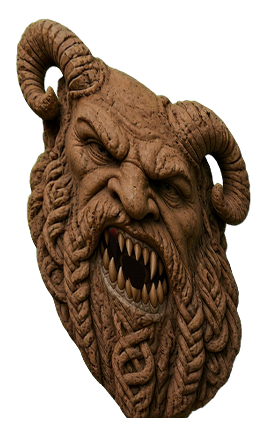
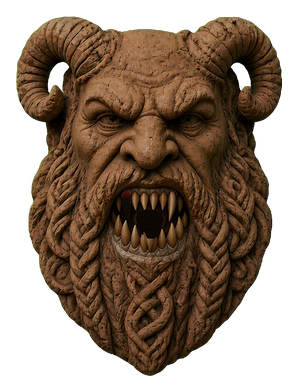
Bind the upright v5 chapel face plates.
Replace the pre-skewed 267×434 sheets with the 298×392 tooth and empty plates, size the content box at 360/392, and raise the half-width cap so the wider face is not squeezed. ASSET_VER 124.

diff --git a/src/dungeon/Ch1TeethCrown.test.js b/src/dungeon/Ch1TeethCrown.test.js
@@ -63,7 +63,7 @@ assert(/one thrall at a time/.test(html) && /Once per corpse/.test(html),
   'HOUSE law is one thrall, once per corpse');
 assert(/follow \/ fight nearest foe \/ stay/.test(html),
   'thrall commands are follow, fight nearest foe, stay');
-assert(/ASSET_VER='123'/.test(html) && !/ASSET_VER='115'/.test(html),
+assert(/ASSET_VER='124'/.test(html) && !/ASSET_VER='115'/.test(html),
   'ASSET_VER is 117 — remat Talpor idle bw=344 (Nick CALL)');
 assert(/bone_crown:'assets\/props\/prop_bone_crown\.png'/.test(html),
   'bone_crown is registered to the painted prop');
@@ -98,17 +98,17 @@ assert(/demon_dwarfface:'assets\/props\/prop_demon_dwarfface\.png'/.test(html)
   const buf=fs.readFileSync(facePath);
   assert(buf[0]===0x89 && buf[1]===0x50 && buf[2]===0x4e && buf[3]===0x47, 'SIGNED face is a PNG');
   const w=buf.readUInt32BE(16), h=buf.readUInt32BE(20);
-  assert(w===267 && h===434, 'approved demon face is the 267×434 plate');
+  assert(w===298 && h===392, 'approved demon face is the 298×392 plate');
 }
 {
   const emptyPath=path.join(__dirname,'../../assets/props/prop_demon_dwarfface_empty.png');
   assert(fs.existsSync(emptyPath), 'empty-socket demon face is on disk');
   const ebuf=fs.readFileSync(emptyPath);
-  assert(ebuf.readUInt32BE(16)===267 && ebuf.readUInt32BE(20)===434,
-    'empty socket is the same 267×434 plate');
+  assert(ebuf.readUInt32BE(16)===298 && ebuf.readUInt32BE(20)===392,
+    'empty socket is the same 298×392 plate');
 }
 assert(/demonFaceDrawH\(img, p\)/.test(extractFn('demonFaceHalf'))
-  && /return clamp\(H\*aspect\/\(2\*perTile\), 0\.70, 2\.40\)/.test(extractFn('demonFaceHalf')),
+  && /return clamp\(H\*aspect\/\(2\*perTile\), 0\.70, 2\.80\)/.test(extractFn('demonFaceHalf')),
   'the chapel face quad uses the content-sized height and keeps the plate aspect');
 assert(/function vaultDemonFace\(/.test(html)
   && /p\.wall==='e' \|\| p\.toothKind==='bronze'/.test(extractFn('vaultDemonFace'))
@@ -203,13 +203,13 @@ assert(/function cellWallH\(L,x,y\)/.test(html)
   && /if\(isTeethNorthWall\(L,x,y\)\) return teethNorthWallH\(L\)/.test(extractFn('cellWallH'))
   && /const faceH=cellWallH\(L,x,y\)/.test(html),
   'drawWallCell uses cellWallH, and the chapel row stays on teethNorthWallH');
-assert(/DEMON_FACE_PLATE=\{w:267,h:434,pad:16\}/.test(html)
+assert(/DEMON_FACE_PLATE=\{w:298,h:392,pad:16\}/.test(html)
   && /DEMON_FACE_CONTENT_SCALE=2\.40/.test(html)
   && /WALL_TEETH_FACE_SCALE=3\.15/.test(html)
-  && 3.15 > 2.40 / (399/434),
-  'the face wall covers the 267×434 plate, horns included, with margin');
+  && 3.15 > 2.40 / (360/392),
+  'the face wall covers the 298×392 plate, horns included, with margin');
 assert(/function chapelFaceContentFrac\(/.test(html)
-  && /return 399\/DEMON_FACE_PLATE\.h/.test(extractFn('chapelFaceContentFrac'))
+  && /return 360\/DEMON_FACE_PLATE\.h/.test(extractFn('chapelFaceContentFrac'))
   && !/spriteBounds/.test(extractFn('demonFaceDrawH'))
   && /chapelFaceContentFrac\(\)/.test(extractFn('demonFaceDrawH')),
   'chapel face height uses the plate fraction, not a live content box');
@@ -662,7 +662,7 @@ assert(box.openTeethChapelLook(crownTap.key)===true && box.G.talk.line===CROWN_L
     G:{lvl:{n:1}},
     TH:58,
     TILESET:{srcH:96},
-    DEMON_FACE_PLATE:{w:267,h:434,pad:16},
+    DEMON_FACE_PLATE:{w:298,h:392,pad:16},
     DEMON_FACE_CONTENT_SCALE:2.40,
     WALL_TEETH_FACE_SCALE:3.15,
     tilesetPack(){ return {wall:{oy:287}}; }

diff --git a/index.html b/index.html
@@ -436,7 +436,7 @@ const FONT_QUOTE='"Cormorant Garamond",Palatino,Georgia,serif';
 
 /* ---------------------------- painted sprites (Baldur's Gate isometric) ---------------------------- */
 const SPR={};
-const ASSET_VER='123';
+const ASSET_VER='124';
 let SPLASH_STATE='loading';
 function assetUrl(src){
   const u=src+(src.indexOf('?')>=0?'&':'?')+'v='+ASSET_VER;
@@ -2673,11 +2673,11 @@ function teethNorthWallH(L){ return wallFaceH(L)*WALL_TEETH_NORTH_SCALE; }
    row so a replacement face plate can rise inside the wall. L.wallH
    stores a multiple of wallFaceH per tile; a set value wins, and the
    predicate still applies when a save has no map. */
-/* Approved plate is 267×434. Alpha box is 235×399 (16px side pad, 19px top).
-   The portrait draws that content box at 2.40× wallFaceH, so the canvas
-   quad is about 2.61× wallFaceH. This segment is 3.15× wallFaceH, taller
-   than the canvas, so the horns sit on masonry with margin. */
-const DEMON_FACE_PLATE={w:267,h:434,pad:16};
+/* v5 plate is 298×392, upright, with no pre-skew. Content box is 266×360
+   (16px pad). The portrait draws that content box at 2.40× wallFaceH, so
+   the canvas quad is about 2.61× wallFaceH. This segment is 3.15× wallFaceH,
+   taller than the canvas, so the horns sit on masonry with margin. */
+const DEMON_FACE_PLATE={w:298,h:392,pad:16};
 const WALL_TEETH_FACE_SCALE=3.15;
 const DEMON_FACE_CONTENT_SCALE=2.40;
 function isTeethFaceWall(L,x,y){
@@ -14996,7 +14996,8 @@ function demonFaceHalf(p){
   const H=demonFaceDrawH(img, p);
   const plateAspect=DEMON_FACE_PLATE.w/DEMON_FACE_PLATE.h;
   const aspect=(img&&img.width&&img.height>img.width)?img.width/Math.max(1,img.height):plateAspect;
-  return clamp(H*aspect/(2*perTile), 0.70, 2.40);
+  /* 298/392 half is about 2.66–2.72. A 2.40 cap squeezes that wider plate. */
+  return clamp(H*aspect/(2*perTile), 0.70, 2.80);
 }
 function demonFacePlaneY(p){
   if(!p||p.wall==='e') return p?p.y:0;
@@ -15006,11 +15007,11 @@ function demonFaceScreen(p){
   return w2s(p.x, demonFacePlaneY(p));
 }
 function chapelFaceContentFrac(){
-  /* Approved plate alpha box is 399 of 434. A live spriteBounds miss
+  /* Content box is 360 of 392 (16px pad). A live spriteBounds miss
      (plate not decoded yet, or a box that failed the portrait test)
      used to return dwarfFaceH()*1.08 — a small mask on the 3.15 wall.
      This fraction is dimensionless, so face/wall is the same at every zoom. */
-  return 399/DEMON_FACE_PLATE.h;
+  return 360/DEMON_FACE_PLATE.h;
 }
 function demonFaceDrawH(img, p){
   if(!p || vaultDemonFace(p)) return dwarfFaceH()*1.08;

diff --git a/src/systems/Interaction.test.js b/src/systems/Interaction.test.js
@@ -37,7 +37,7 @@ assert(SR.SHIPPED.indexOf('Interaction')>=0 && SR.SHIPPED.indexOf('Discovery')>=
 assert(/src="src\/systems\/Interaction\.js"/.test(html),
   'Interaction is a classic sync tag');
 assert(!/type\s*=\s*["']module["']/.test(html), 'index.html still has no type=module');
-assert(/ASSET_VER='123'/.test(html), 'ASSET_VER is 117');
+assert(/ASSET_VER='124'/.test(html), 'ASSET_VER is 117');
 assert(/function tryFindSecret\(p, mode\)\{/.test(html) &&
   /key==='search'/.test(html) && /key==='secret'/.test(html),
   'dual SEARCH (F herbs / T doors) is unchanged');
@@ -388,7 +388,7 @@ assert(/if\(typeof Interaction!=='undefined' && Interaction\.isProtectedCell/.te
 assert(/breakRock\(L,i,j\)/.test(html) && /function breakRock\(L,i,j\)\{/.test(html),
   'host breakRock remains the destruction path');
 assert(/function openSecret\(sec\)\{/.test(html), 'host openSecret remains the secret path');
-assert(/ASSET_VER='123'/.test(html) && !/ASSET_VER='115'/.test(html), 'ASSET_VER is 117 — remat Talpor idle bw=344 (Nick CALL)');
+assert(/ASSET_VER='124'/.test(html) && !/ASSET_VER='115'/.test(html), 'ASSET_VER is 117 — remat Talpor idle bw=344 (Nick CALL)');
 
 if(failed){ console.error('\n'+failed+' failed'); process.exit(1); }
 console.log('\ninteraction checks passed');

diff --git a/src/saves/GameSave.test.js b/src/saves/GameSave.test.js
@@ -69,7 +69,7 @@ assert(/Save game/.test(html) && /function writeGameSave\(/.test(html), 'pause c
 }
 assert(/GameSave\.captureWorld/.test(html) && /GameSave\.applyWorld/.test(html), 'play save uses the versioned world schema');
 assert(/remakeSavedEnt/.test(html) && /restoreSavedEid/.test(html), 'load remakes ents and restores numeric EIDs');
-assert(!/ASSET_VER='100'/.test(html) && !/ASSET_VER='101'/.test(html) && !/ASSET_VER='102'/.test(html) && /ASSET_VER='123'/.test(html), 'ASSET_VER is 117');
+assert(!/ASSET_VER='100'/.test(html) && !/ASSET_VER='101'/.test(html) && !/ASSET_VER='102'/.test(html) && /ASSET_VER='124'/.test(html), 'ASSET_VER is 117');
 assert(/G\.scene==='camp'/.test(html) && /drawHint\(g,UIS\)/.test(html), 'camp draws the Saved toast');
 assert(/Continue/.test(html) && /function loadSavedGame\(/.test(html), 'title can continue a save');
 assert(/G\._keepProgress/.test(html) && /G\._forceSeeds/.test(html), 'load keeps campaign and dungeon seeds');

diff --git a/src/ui/Ch1RubbleLoad.test.js b/src/ui/Ch1RubbleLoad.test.js
@@ -45,7 +45,7 @@ assert(!/else if\(okTex\)\{/.test(html),
   'generated TEX diamonds are not a first-frame floor/wall fallback');
 assert(/tile_floor_mine\.png\?v=60/.test(html) && /tile_wall_worked\.png\?v=60/.test(html),
   'mine floor and worked wall are preloaded before first present');
-assert(/ASSET_VER='123'/.test(html), 'asset cache-bust is 117 — remat Talpor idle bw=344 (Nick CALL)');
+assert(/ASSET_VER='124'/.test(html), 'asset cache-bust is 117 — remat Talpor idle bw=344 (Nick CALL)');
 assert(/function scatterBurialRubble\(/.test(html) && /fallen:1/.test(html) && /k:'dust'/.test(html),
   'cave-in entry scatters extra timber, stone, and dust around the burial');
 assert(!/s:0\.55,seed:s\.seed\+40/.test(html) && !/s:0\.48,seed:s\.seed\+51/.test(html),

diff --git a/src/systems/PartyOrders.test.js b/src/systems/PartyOrders.test.js
@@ -278,7 +278,7 @@ assert(rooted.moving===0 && rooted.atk===0 && rooted.x===3 && !rooted.aim,
 
 /* ---- host wiring ---- */
 assert(/src="src\/systems\/PartyOrders\.js"/.test(html), 'index includes PartyOrders.js');
-assert(/ASSET_VER='123'/.test(html) && !/ASSET_VER='115'/.test(html), 'ASSET_VER is 121 — remat Talpor idle bw=344 (Nick CALL)');
+assert(/ASSET_VER='124'/.test(html) && !/ASSET_VER='115'/.test(html), 'ASSET_VER is 121 — remat Talpor idle bw=344 (Nick CALL)');
 /* 2026-09-26: the Hold / Regroup / Focus HUD was removed (mobile clutter).
    The module stays for its logic tests; play switches it off. */
 assert(!/key:'hold'/.test(html) && !/key:'regroup'/.test(html) && !/key:'focus'/.test(html),

diff --git a/src/ui/EquipCompare.test.js b/src/ui/EquipCompare.test.js
@@ -70,7 +70,7 @@ assert(SR.has('EquipCompare') && SR.get('EquipCompare')===EC,
 assert(SR.SHIPPED.indexOf('EquipCompare')>=0, 'EquipCompare is a shipped optional module');
 assert(SR.SHIPPED.indexOf('DerivedStats')>=0, 'DerivedStats is a shipped optional module');
 assert(!/type\s*=\s*["']module["']/.test(html), 'index.html still has no type=module');
-assert(/ASSET_VER='123'/.test(html), 'ASSET_VER is 117');
+assert(/ASSET_VER='124'/.test(html), 'ASSET_VER is 117');
 assert(!/ASSET_VER='100'/.test(html) && !/ASSET_VER='101'/.test(html) && !/ASSET_VER='102'/.test(html), 'ASSET_VER is not leftover 100/101/102');
 assert(/src="src\/combat\/DerivedStats\.js"/.test(html),
   'DerivedStats is a classic sync tag');

diff --git a/src/ui/Ch1StartLoadout.test.js b/src/ui/Ch1StartLoadout.test.js
@@ -53,7 +53,7 @@ assert(/if\(r\.key==='macar'\) ensureMacarStartingGear\(pk\)/.test(html),
   'ensurePacks wears the starting kit on Macar');
 assert(/livingMacarIdleKey/.test(html) && /wieldsShadowCleaver/.test(html),
   'maul idle is the default; Cleaver is an equip swap');
-assert(/ASSET_VER='123'/.test(html),
+assert(/ASSET_VER='124'/.test(html),
   'ASSET_VER is 117 — remat Talpor idle bw=344 (Nick CALL)');
 assert(/Interaction\.installChapterI/.test(html)
   && /if \(L\.n === 1 && i < 14\) return true/.test(fs.readFileSync(path.join(root,'src/systems/Interaction.js'),'utf8')),

diff --git a/src/systems/EnemyIntent.test.js b/src/systems/EnemyIntent.test.js
@@ -62,7 +62,7 @@ assert(/function applyEnemyIntent\(/.test(html) && /function intentHost\(/.test(
   'host applies intent through existing steerWalk / atk machinery');
 assert(/EnemyIntent\.decide\(e, dt, intentHost\(\)\)/.test(html),
   'only the foe decision branch consults EnemyIntent');
-assert(/ASSET_VER='123'/.test(html), 'ASSET_VER is 117');
+assert(/ASSET_VER='124'/.test(html), 'ASSET_VER is 117');
 
 const head=html.slice(0, html.indexOf('<script>\n"use strict";'));
 const navI=head.indexOf('src="src/systems/Navigation.js"');

diff --git a/src/systems/Navigation.test.js b/src/systems/Navigation.test.js
@@ -92,7 +92,7 @@ assert(/bumpTopology\('openSecret/.test(html) && /bumpTopology\('breakRock'\)/.t
   'openSecret and breakRock invalidate nav topology');
 assert(/G\.topologyRev=0/.test(html) && /G\.seenRev=\(G\.seenRev\|\|0\)\+1/.test(html),
   'chapter reset clears topologyRev; breakRock still bumps seenRev separately');
-assert(/ASSET_VER='123'/.test(html), 'ASSET_VER is 117');
+assert(/ASSET_VER='124'/.test(html), 'ASSET_VER is 117');
 
 /* ---- real Macar canBe / walk / wallFaceClear ---- */
 function makeGrid(w, h, fill){

diff --git a/src/dungeon/TeethRoomDialogue.test.js b/src/dungeon/TeethRoomDialogue.test.js
@@ -25,7 +25,7 @@ function extractFn(name){
   throw new Error('unclosed '+name);
 }
 
-assert(/ASSET_VER='123'/.test(html) && !/ASSET_VER='115'/.test(html) && !/ASSET_VER='116'/.test(html),
+assert(/ASSET_VER='124'/.test(html) && !/ASSET_VER='115'/.test(html) && !/ASSET_VER='116'/.test(html),
   'ASSET_VER is 117');
 assert(!/G\.scene='intro'/.test(html), 'new descent does not open the chapter intro');
 assert(/function drawIntro\(g\)\{/.test(html), 'drawIntro remains in source but is not the player gate');

diff --git a/src/systems/Discovery.test.js b/src/systems/Discovery.test.js
@@ -32,7 +32,7 @@ assert(SR.has('Discovery') && SR.get('Discovery')===D,
 assert(/src="src\/systems\/Discovery\.js"/.test(html),
   'Discovery is a classic sync tag');
 assert(!/type\s*=\s*["']module["']/.test(html), 'index.html still has no type=module');
-assert(/ASSET_VER='123'/.test(html), 'ASSET_VER is 117');
+assert(/ASSET_VER='124'/.test(html), 'ASSET_VER is 117');
 
 D.reset();
 assert(D.note('not-an-id','seen')===null, 'malformed id is rejected');
